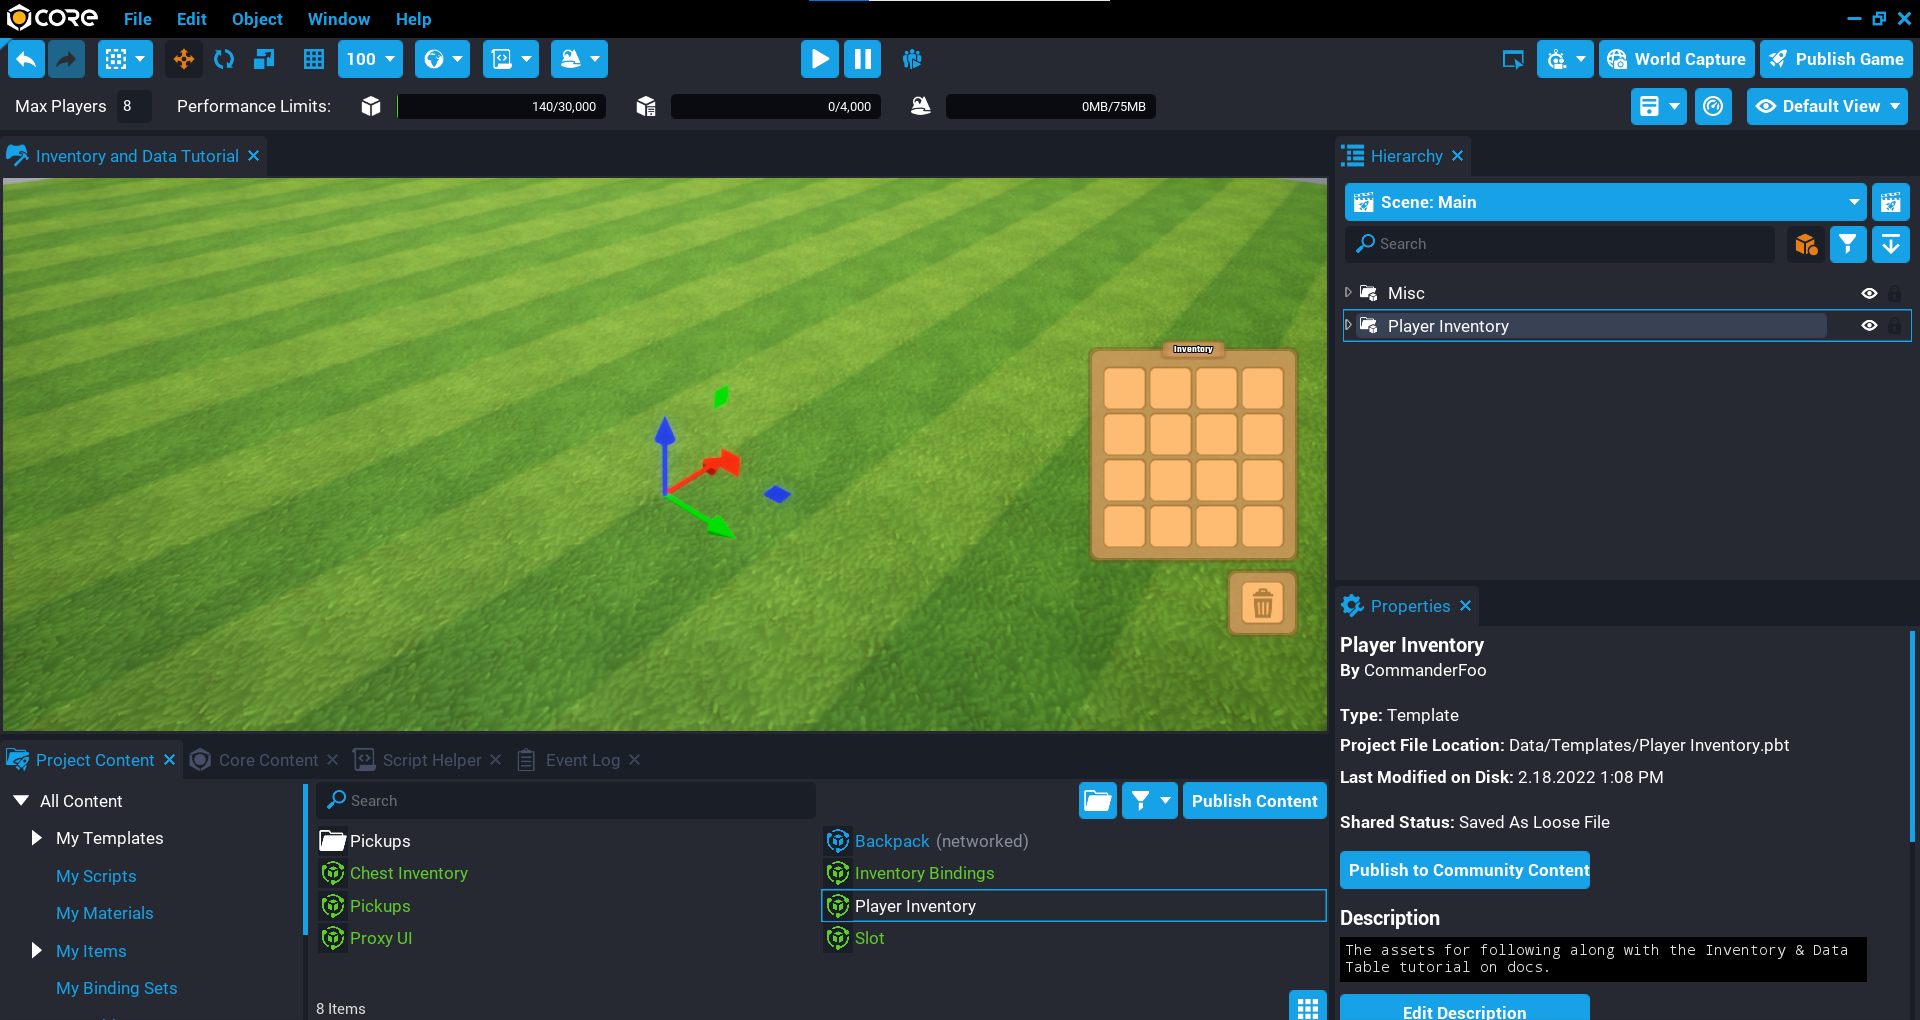
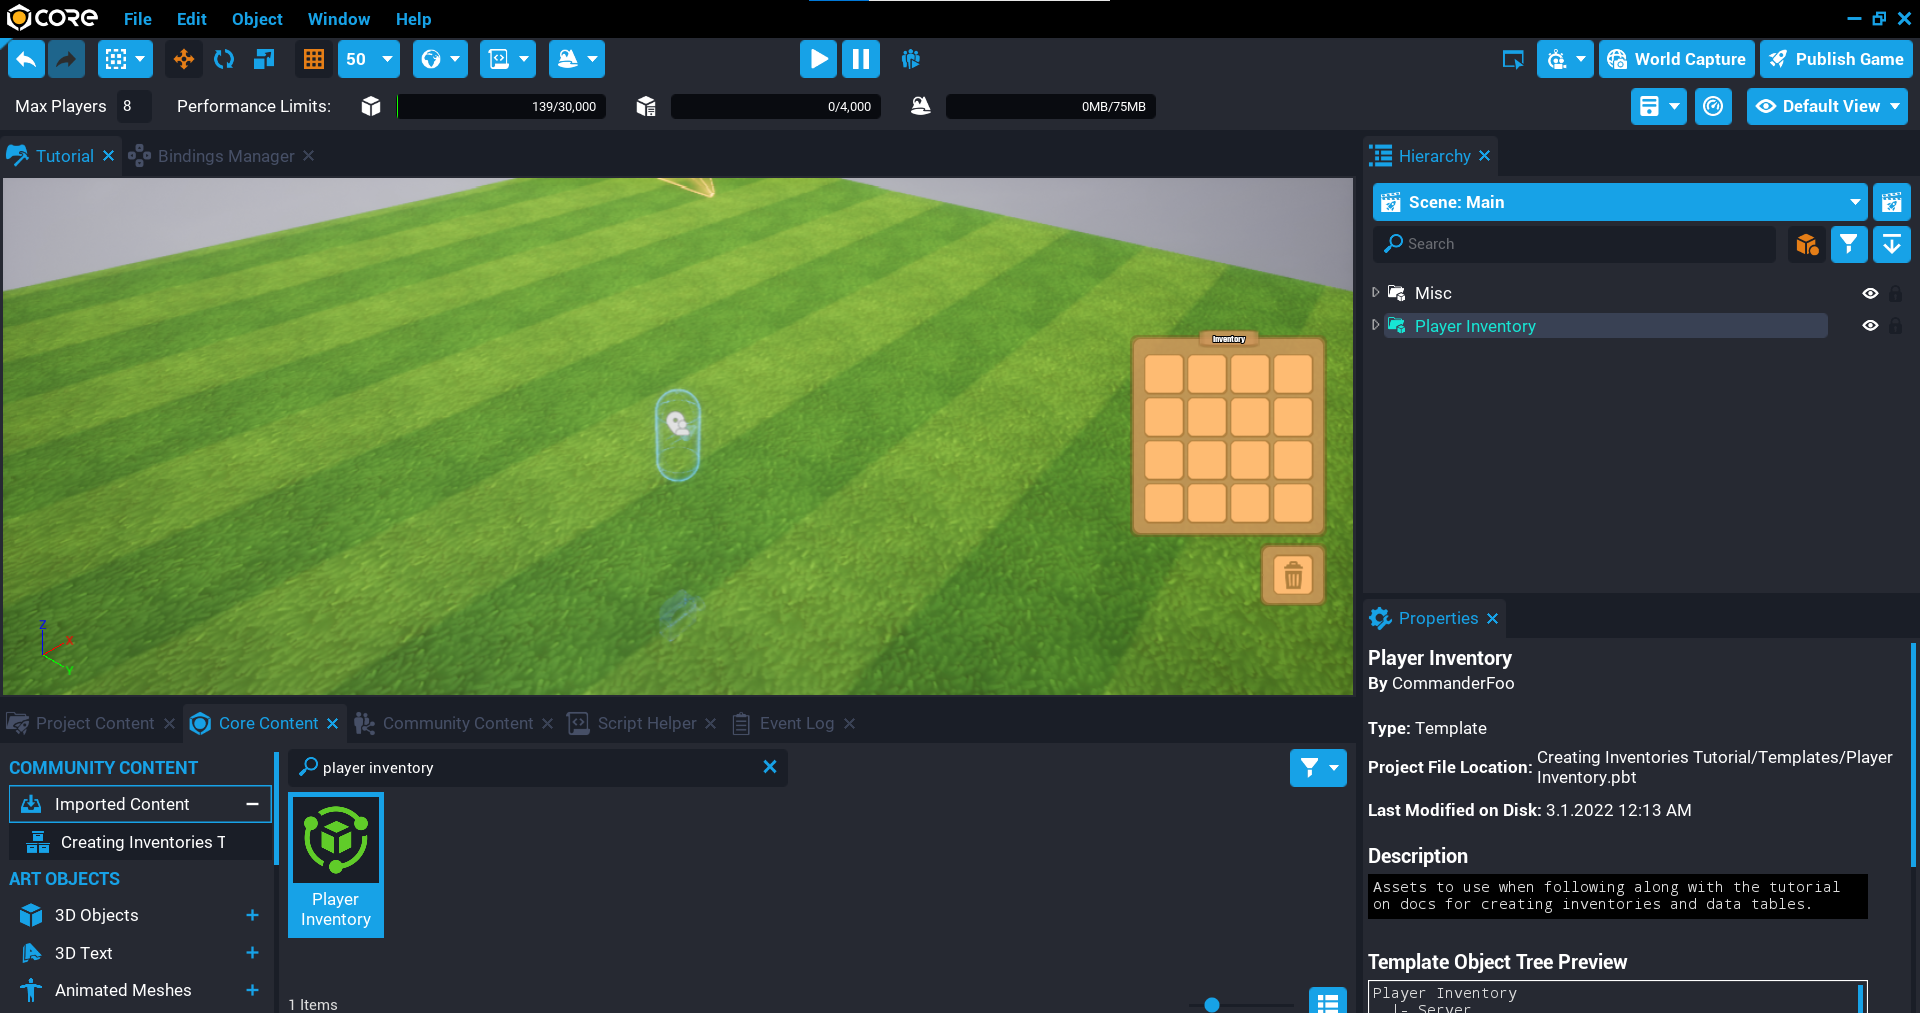
Updated image

diff --git a/src/tutorials/creating_inventories.md b/src/tutorials/creating_inventories.md
@@ -110,7 +110,7 @@ Each player that joins the game will have a backpack with a size of 16 slots ass
 
 The UI for the player inventory has been created already, this can be customized and more slots can be added if you like. If more slots are created, remember to update the slot count for the backpack.
 
-1. In **Project Content** add the **Player Inventory** template to the **Hierarchy**.
+1. In **Core Content** search for `player inventory` to find the **Player Inventory** template, and add it to the **Hierarchy**.
 2. **Deinstance** the template.
 
 ![!Add Player Inventory](../img/Inventory/Tutorial/add_player_inventory.png){: .center loading="lazy" }
